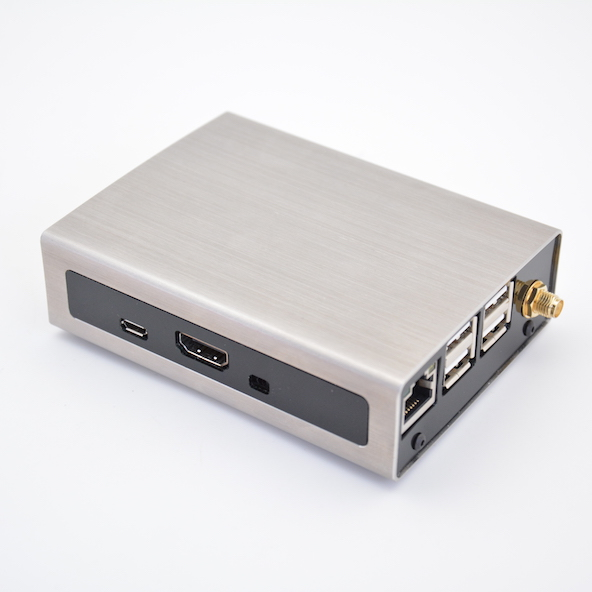
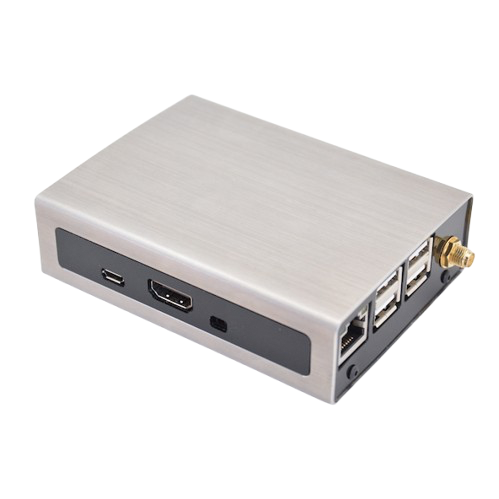
Add Jeedom Smart sans antenne guide and update assets
Added box-smart-sans-antenne.html for Jeedom Smart setup without antenna. Updated image assets, replaced smart.jpg, removed smart-removebg-preview.png, and added new images. Modified index.php to link to the new guide and adjusted card image styles in style.css for improved layout.

Changed region(s): [[0.0902, 0.5411, 0.9619, 0.8417], [0.9319, 0.4208, 0.9619, 0.481], [0.9319, 0.511, 0.9619, 0.5411]]

diff --git a/box-smart-sans-antenne.html b/box-smart-sans-antenne.html
@@ -1,0 +1,226 @@
+<!DOCTYPE html>
+<html lang="fr" data-theme="light">
+<head>
+    <meta charset="UTF-8">
+    <meta name="viewport" content="width=device-width, initial-scale=1.0">
+    <title>Jeedom - Bienvenue</title>
+    <link rel="preconnect" href="https://fonts.googleapis.com">
+    <link rel="preconnect" href="https://fonts.gstatic.com" crossorigin>
+    <link href="https://fonts.googleapis.com/css2?family=Raleway:wght@400;500;600;700&display=swap" rel="stylesheet">
+    <link rel="stylesheet" href="style.css">
+</head>
+<body>
+
+    <header class="site-header">
+        <div class="header-content">
+            <img src="img/Jeedom-Start-logo.svg" alt="Jeedom Start Logo" class="logo">
+            <div class="header-controls">
+                <span class="header-title">Guides de démarrage Jeedom</span>
+                <button id="theme-switcher" aria-label="Toggle light/dark theme">🌙</button>
+            </div>
+        </div>
+    </header>
+
+    <main>
+
+        <nav class="sticky-menu">
+            <div class="content-wrapper menu-content">
+                <a href="index.php" class="back-arrow">
+                    <svg width="24" height="24" viewBox="0 0 24 24" fill="none" xmlns="http://www.w3.org/2000/svg">
+                        <path d="M15 18L9 12L15 6" stroke="currentColor" stroke-width="2" stroke-linecap="round" stroke-linejoin="round"/>
+                    </svg>
+                </a>
+                <div class="menu-items">
+                    <a href="#deballage" class="menu-item active">1. Déballage</a>
+                    <a href="#branchements" class="menu-item">2. Branchements</a>
+                    <a href="#market" class="menu-item">3. Inscription au Jeedom Market</a>
+                    <a href="#recherche" class="menu-item">4. Recherche de la box sur le réseau</a>
+                    <a href="#connexion" class="menu-item">5. Connexion à la box Jeedom</a>
+                </div>
+            </div>
+        </nav>
+
+        <section class="box-contents-section" id="deballage">
+            <div class="content-wrapper">
+                <h1>Le contenu de la boîte</h1>
+                <div class="card-grid">
+                    <div class="card item-card">
+                        <div class="item-header">
+                            <span class="item-number">1</span>
+                            <h2>Jeedom Smart</h2>
+                        </div>
+                        <img src="img/smart.jpg" alt="Jeedom Smart">
+                    </div>
+                    <div class="card item-card">
+                        <div class="item-header">
+                            <span class="item-number">2</span>
+                            <h2>Alimentation</h2>
+                        </div>
+                        <img src="img/power-supply.jpg" alt="Alimentation">
+                    </div>
+                </div>
+                
+                <div style="height: 30px;"></div>
+                <h2 class="mt-5" style="margin-left:20px;">Ce dont vous avez besoin</h2>
+                <div style="height: 30px;"></div>
+                <div class="card-grid">
+                    <div class="card item-card">
+                        <div class="item-header">
+                            <h2>Câble Ethernet</h2>
+                        </div>
+
+                        <img src="img/ethernet-cable.jpg" alt="Câble Ethernet">
+                    </div>
+                    <div class="card item-card">
+                        <div class="item-header">
+                            <h2>Routeur / Box Internet</h2>
+                        </div>
+                        <img src="img/router.jpg" alt="Routeur">
+                    </div>
+                    <div class="card item-card">
+                        <div class="item-header">
+                            <h2>Connexion Internet</h2>
+                        </div>
+                        <img src="img/internet_1.svg" alt="Internet">
+                </div>
+            </div>
+        </section>
+        
+        <section class="section" id="branchements">
+            <div class="content-wrapper">
+                <h1>Branchements</h1>
+                <div class="card-grid">
+                    <div class="card item-card">
+                        <div class="item-header">
+                            <span class="item-number">1</span>
+                            <h2>Connecter le câble au routeur</h2>
+                        </div>
+                        <img src="img/connect-router.jpg" alt="Connexion routeur">
+                    </div>
+                    <div class="card item-card">
+                        <div class="item-header">
+                            <span class="item-number">2</span>
+                            <h2>Brancher l'alimentation</h2>
+                        </div>
+                        <img src="img/connect-power-ethernet-sans-antenne.png" alt="Connexion alimentation">
+                    </div>
+                </div>
+            </div>
+        </section>
+
+        <section class="section" id="market">
+            <div class="content-wrapper">
+                <h1>Inscription au Jeedom Market</h1>
+                <div class="card-grid">
+                    <div class="card item-card">
+                        <div class="item-header">
+                            <span class="item-number">1</span>
+                            <h2>Se rendre sur le Market</h2>
+                        </div>
+                        <p>Rendez-vous sur le Market Jeedom pour enregistrer votre Service Pack</p>
+                        <img src="img/logo-MARKET.svg" alt="Market Jeedom">
+                        <div class="mt-3">
+                            <a href="https://market.jeedom.com" target="_blank" class="btn btn-primary">Aller sur le Market</a>
+                        </div>
+                    </div>
+                    <div class="card item-card">
+                        <div class="item-header">
+                            <span class="item-number">2</span>
+                            <h2>Créer un compte</h2>
+                        </div>
+                        <p>Si vous disposez déjà d'un compte sur le Market, cliquez sur "Se Connecter". Sinon cliquez sur "S'enregistrer"</p>
+                        <img src="img/connect-market.jpg" alt="Connexion Market">
+                    </div>
+                    <div class="card item-card">
+                        <div class="item-header">
+                            <span class="item-number">3</span>
+                            <h2>Enregistrer le Service Pack</h2>
+                        </div>
+                        <p>Après votre connexion, cliquez sur votre pseudo puis sur "Profil". Cliquez ensuite sur l'onglet "Mes Services" et inscrivez le code Service Pack reçu par Email</p>
+                        <img src="img/service-pack.jpg" alt="Service Pack">
+                    </div>
+                </div>
+            </div>
+        </section>
+
+        <section class="section" id="recherche">
+            <div class="content-wrapper">
+                <h1>Recherche de la box sur le réseau</h1>
+                <div class="card-grid">
+                    <div class="card item-card">
+                        <div class="item-header">
+                            <span class="item-number">1</span>
+                            <h2>Se connecter au Market</h2>
+                        </div>
+                        <p>Connectez-vous sur le Market Jeedom</p>
+                        <img src="img/logo-MARKET.svg" alt="Market Jeedom">
+                        <div class="mt-3">
+                            <a href="https://market.jeedom.com" target="_blank" class="btn btn-primary">Aller sur le Market</a>
+                        </div>
+                    </div>
+                    <div class="card item-card">
+                        <div class="item-header">
+                            <span class="item-number">2</span>
+                            <h2>Trouver Jeedom sur le réseau</h2>
+                        </div>
+                        <p>Cliquez sur "Jeedom sur mon réseau"</p>
+                        <img src="img/search-market.jpg" alt="Recherche Market">
+                    </div>
+                    <div class="card item-card">
+                        <div class="item-header">
+                            <span class="item-number">3</span>
+                            <h2>Sélectionner votre box</h2>
+                        </div>
+                        <p>La liste des Jeedoms apparaît, cliquez sur l'URL afin d'ouvrir l'interface</p>
+                        <img src="img/find-market.jpg" alt="Trouver Market">
+                    </div>
+                </div>
+            </div>
+        </section>
+
+        <section class="section" id="connexion">
+            <div class="content-wrapper">
+                <h1>Connexion à la box Jeedom</h1>
+                <div class="card-grid">
+                    <div class="card item-card">
+                        <div class="item-header">
+                            <span class="item-number">1</span>
+                            <h2>Première connexion</h2>
+                        </div>
+                        <p>Lors de la 1ère connexion les codes d'accès par défaut sont : <br>Login: <strong>admin</strong> <br>Mot de passe : <strong>admin</strong></p>
+                        <img src="img/connect-jeedom.jpg" alt="Connexion Jeedom">
+                    </div>
+                    <div class="card item-card">
+                        <div class="item-header">
+                            <span class="item-number">2</span>
+                            <h2>Changement de mot de passe</h2>
+                        </div>
+                        <p>Vous êtes invité à changer le mot de passe par défaut</p>
+                        <img src="img/changePwd.png" alt="Changement mot de passe">
+                    </div>
+                    <div class="card item-card">
+                        <div class="item-header">
+                            <span class="item-number">3</span>
+                            <h2>Connecter votre compte Market</h2>
+                        </div>
+                        <p>Vous pouvez rentrer votre compte Market</p>
+                        <img src="img/connectMarket.png" alt="Connexion Market">
+                    </div>
+                    <div class="card item-card">
+                        <div class="item-header">
+                            <span class="item-number">4</span>
+                            <h2>Initialisation de la box</h2>
+                        </div>
+                        <p>La box se met à jour. Laissez faire le processus</p>
+                        <img src="img/initBox.png" alt="Initialisation box">
+                    </div>
+                </div>
+            </div>
+        </section>
+    </main>
+
+    <button id="back-to-top" title="Retour en haut">⬆</button>
+
+    <script src="script.js"></script>
+</body>
+</html>

diff --git a/style.css b/style.css
@@ -32,6 +32,8 @@
     margin-top: 50px !important;
 }
 
+
+
 /* --- GENERAL STYLES --- */
 *, *::before, *::after {
     box-sizing: border-box;
@@ -183,9 +185,11 @@ h2 {
 }
 
 .card img {
-    max-width: 100%;
-    height: auto;
+    /* max-width: 100%;
+    height: auto; */
     margin-top: auto;
+    width: 160px;
+    height: 140px;
 }
 
 /* --- STICKY NAVIGATION MENU --- */
@@ -262,6 +266,7 @@ h2 {
     align-items: center;
     gap: 0.75rem;
     margin-bottom: 0.5rem;
+    height:60px;
 }
 
 .item-card .item-number {

diff --git a/index.php b/index.php
@@ -50,7 +50,7 @@
                         <div class="card-content">
                             <h2>Jeedom <br>Smart</h2>
                         </div>
-                        <a href="box-smart.html">
+                        <a href="box-smart-sans-antenne.html">
                             <img src="img/jeedom-smart/pack-jeedom-smart-z-wave-sans-antenne.png" alt="Jeedom Smart">
                         </a>
                     </div>
